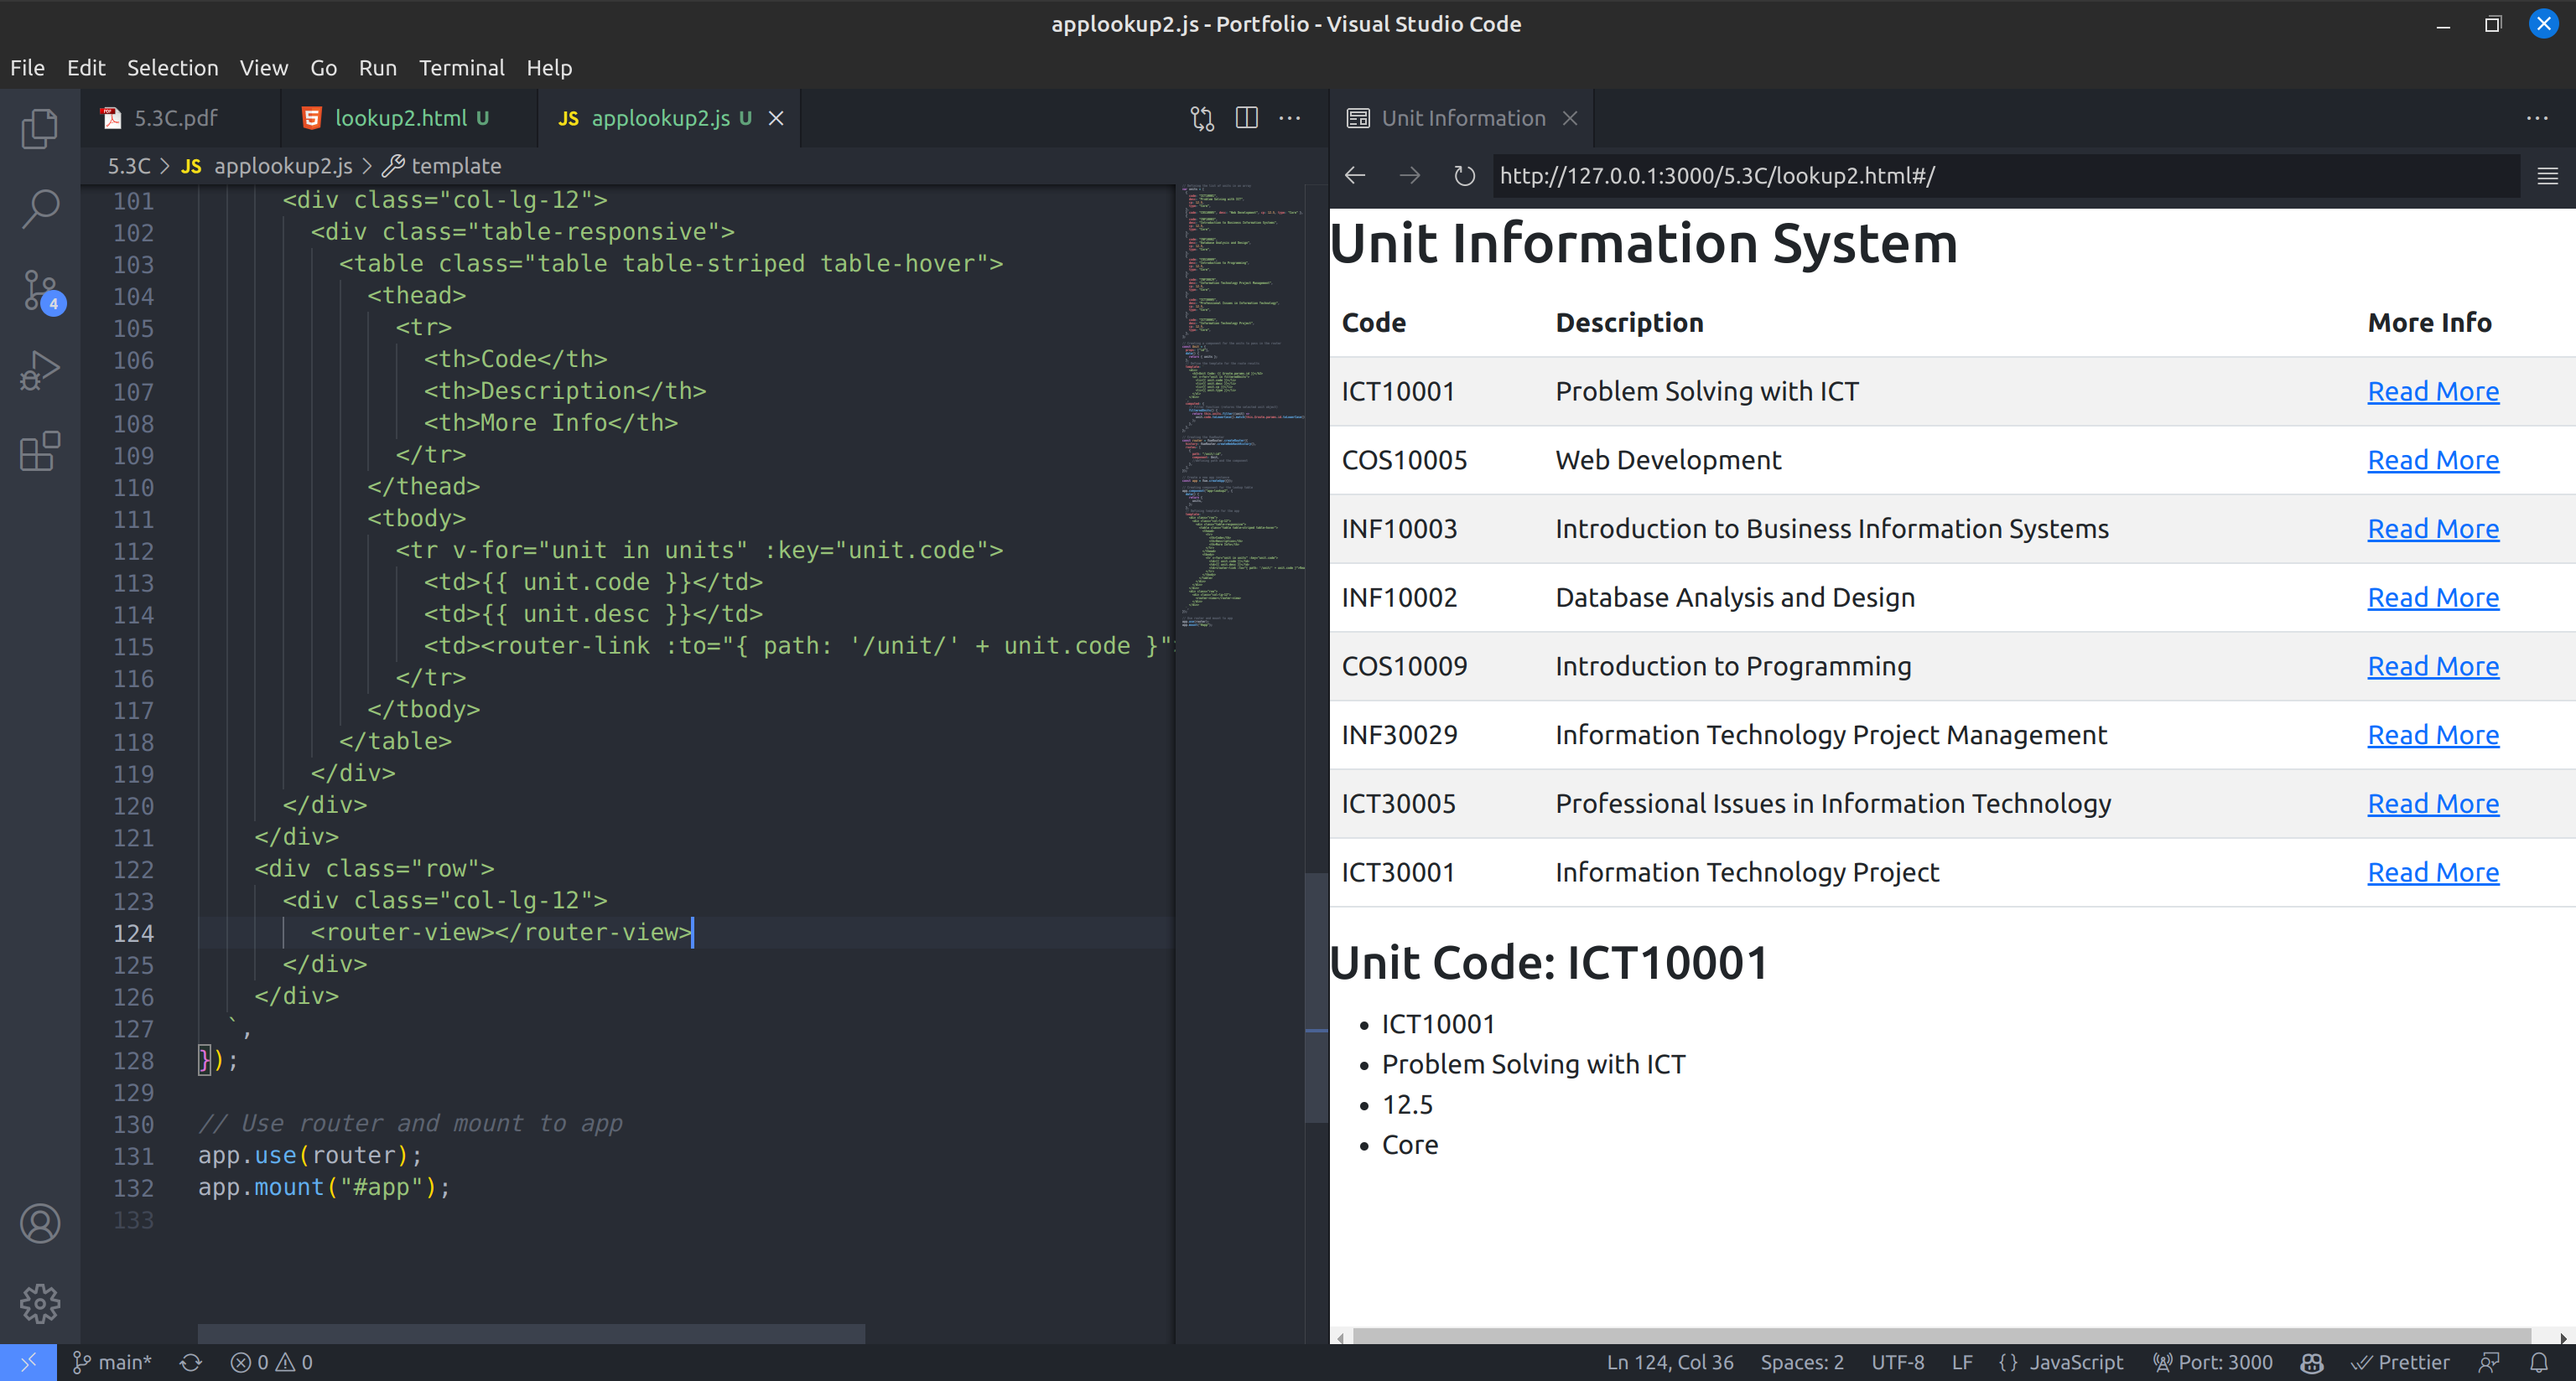
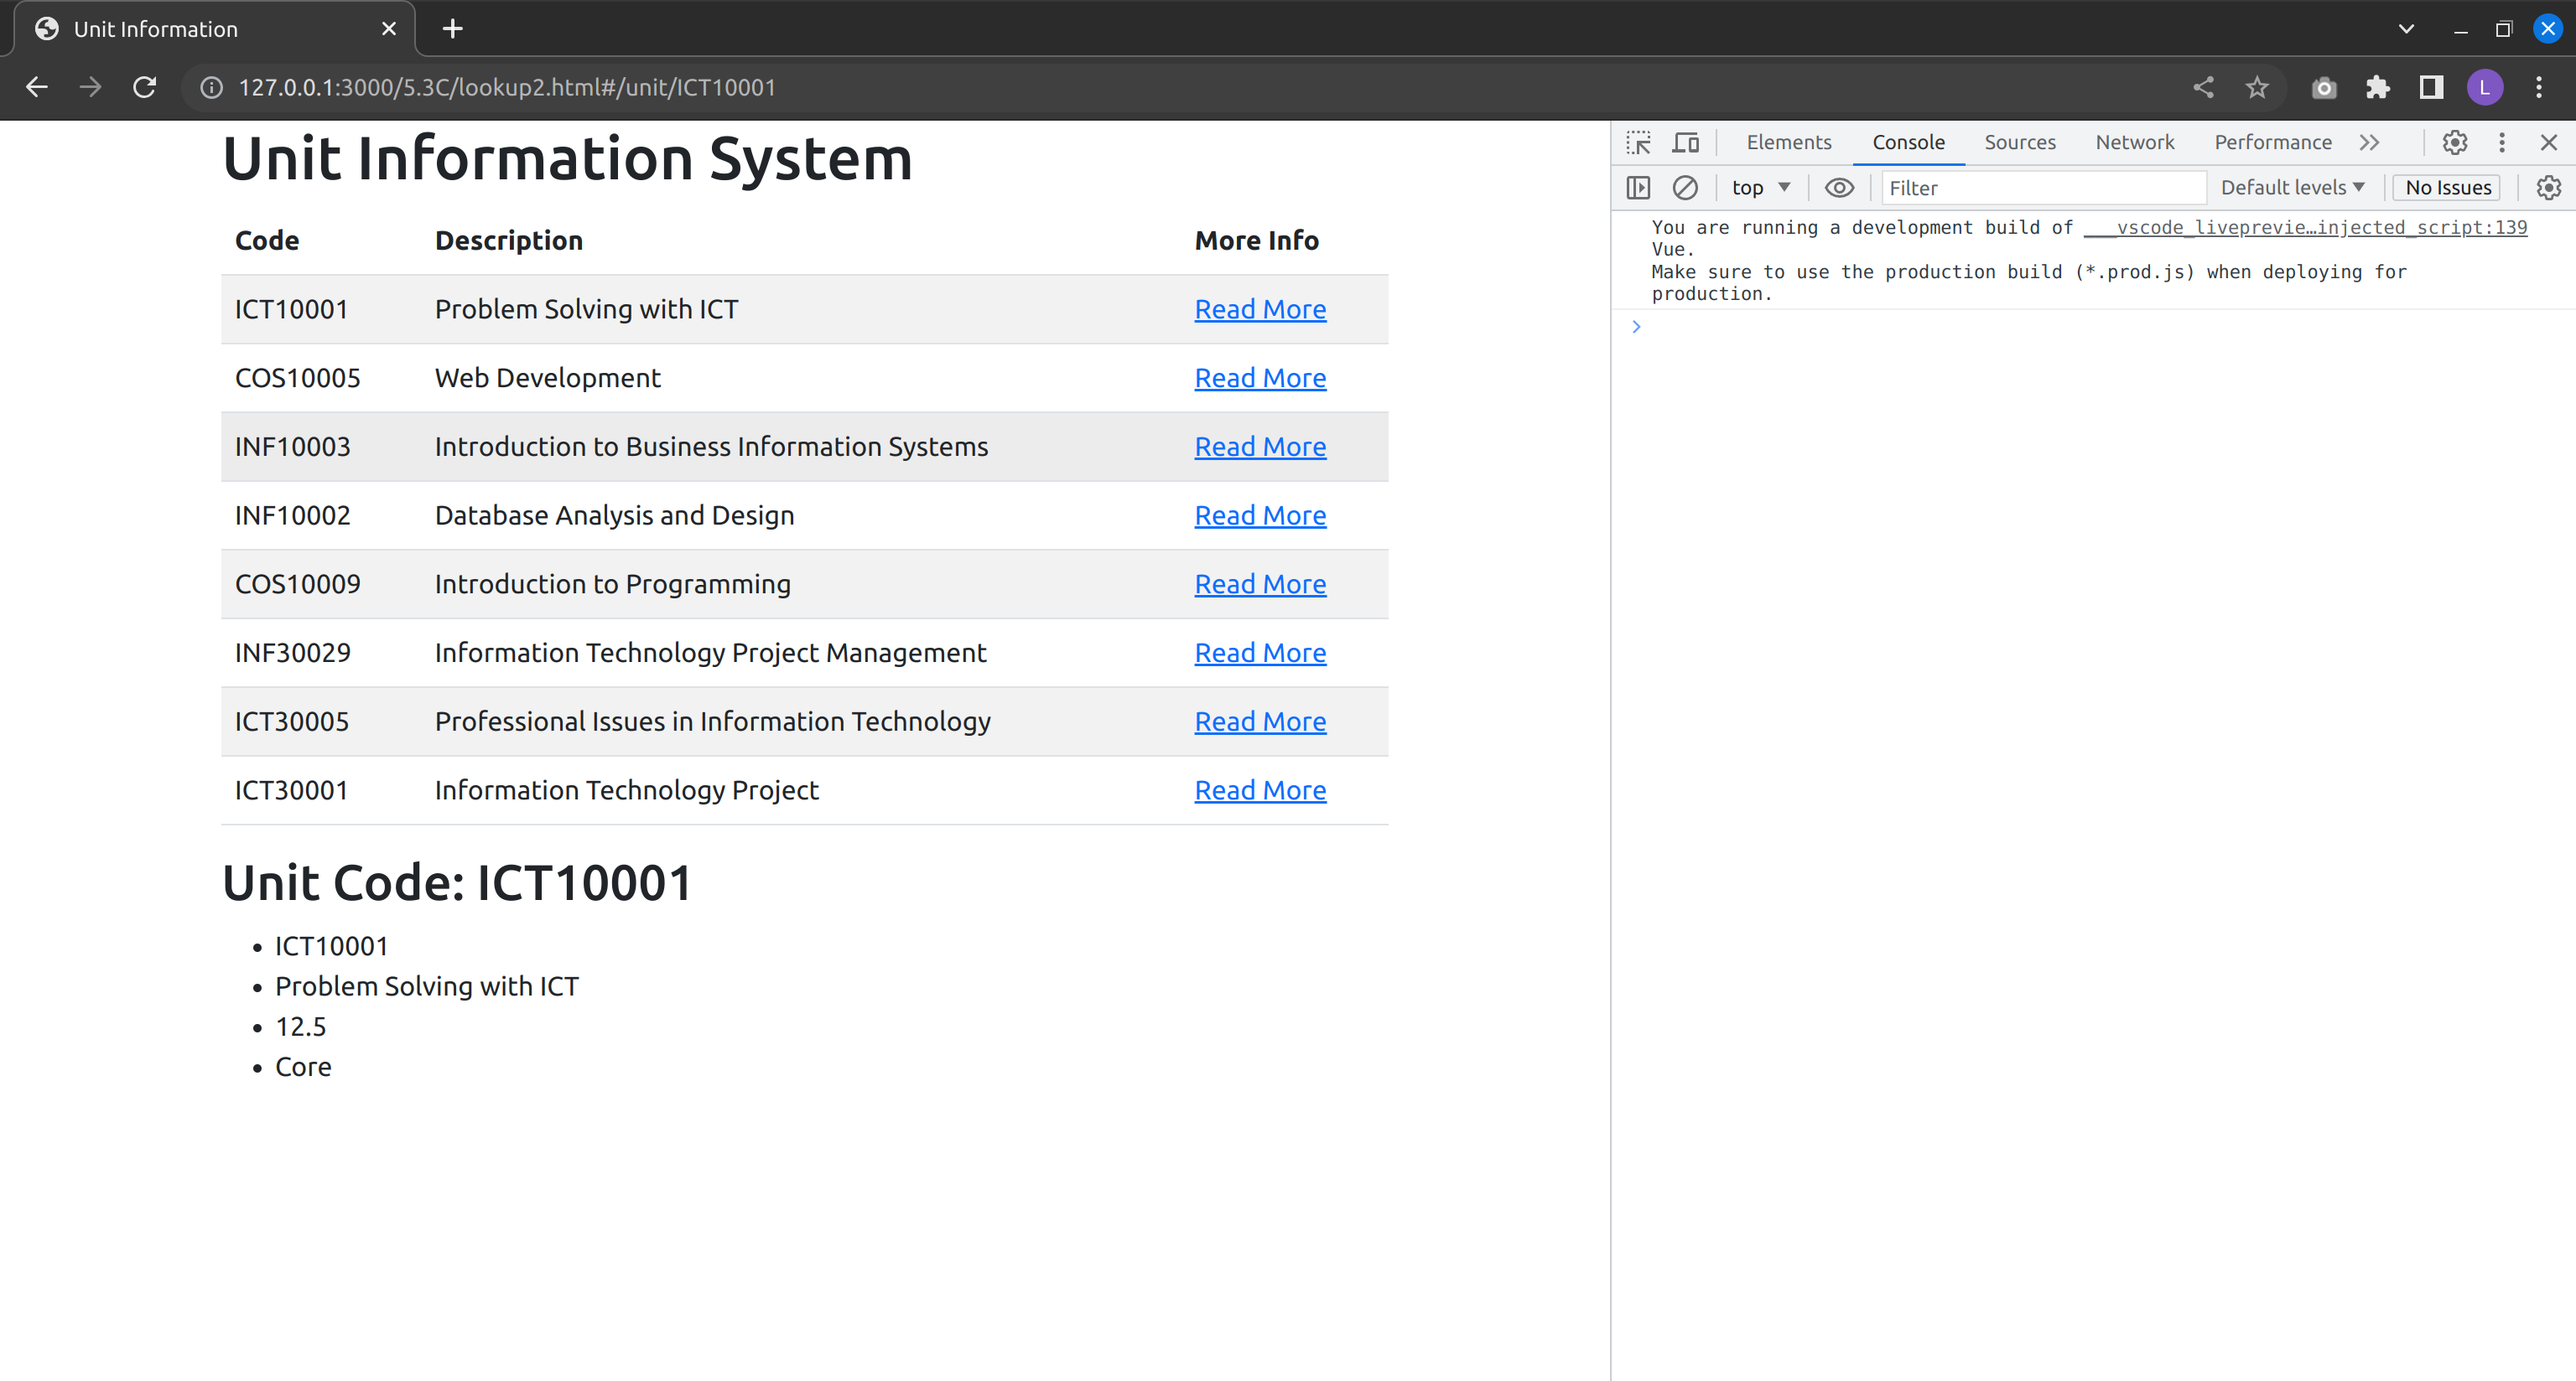
added new files

diff --git a/Portfolio/5.3C/lookup2.html b/Portfolio/5.3C/lookup2.html
@@ -13,9 +13,15 @@
     />
   </head>
   <body>
-    <h1>Unit Information System</h1>
     <div id="app">
-      <app-lookup2></app-lookup2>
+      <div class="container">
+        <div class="row">
+          <div class="col-lg-12">
+            <h1>Unit Information System</h1>
+          </div>
+        </div>
+        <app-lookup2></app-lookup2>
+      </div>
     </div>
     <script src="https://unpkg.com/vue@3/dist/vue.global.js"></script>
     <script src="https://unpkg.com/vue-router@4.0.15/dist/vue-router.global.js"></script>
